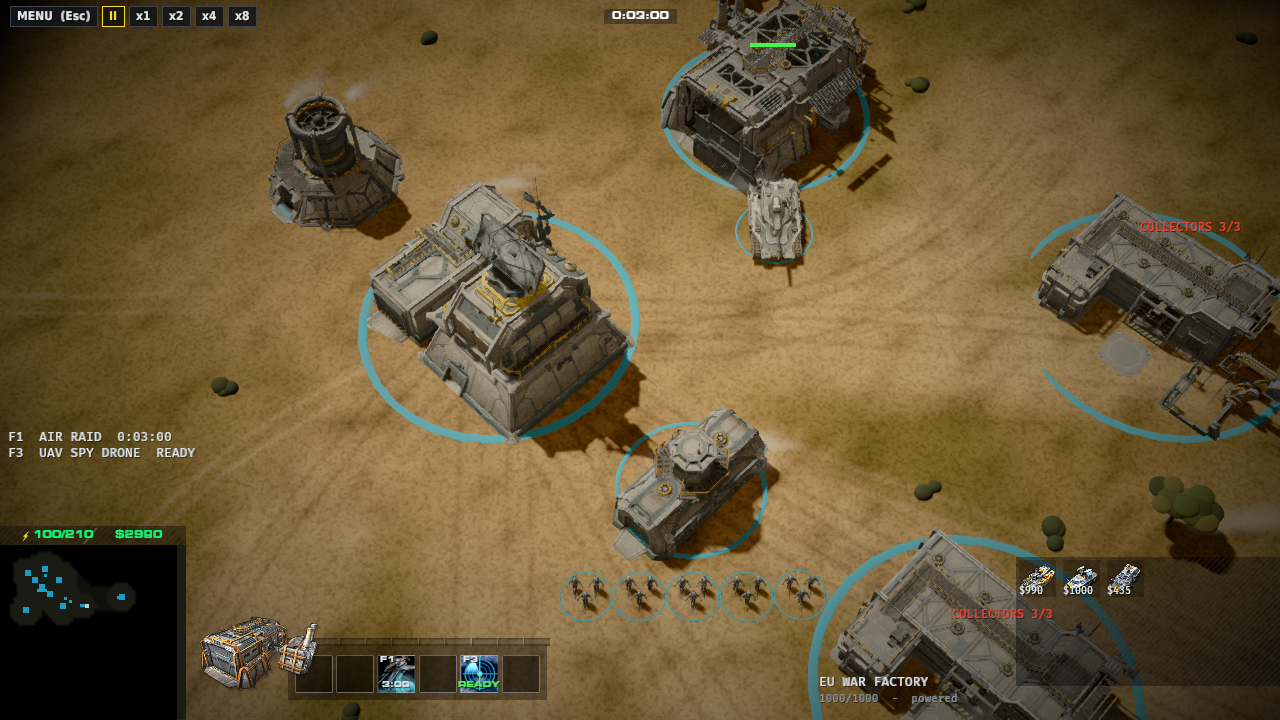
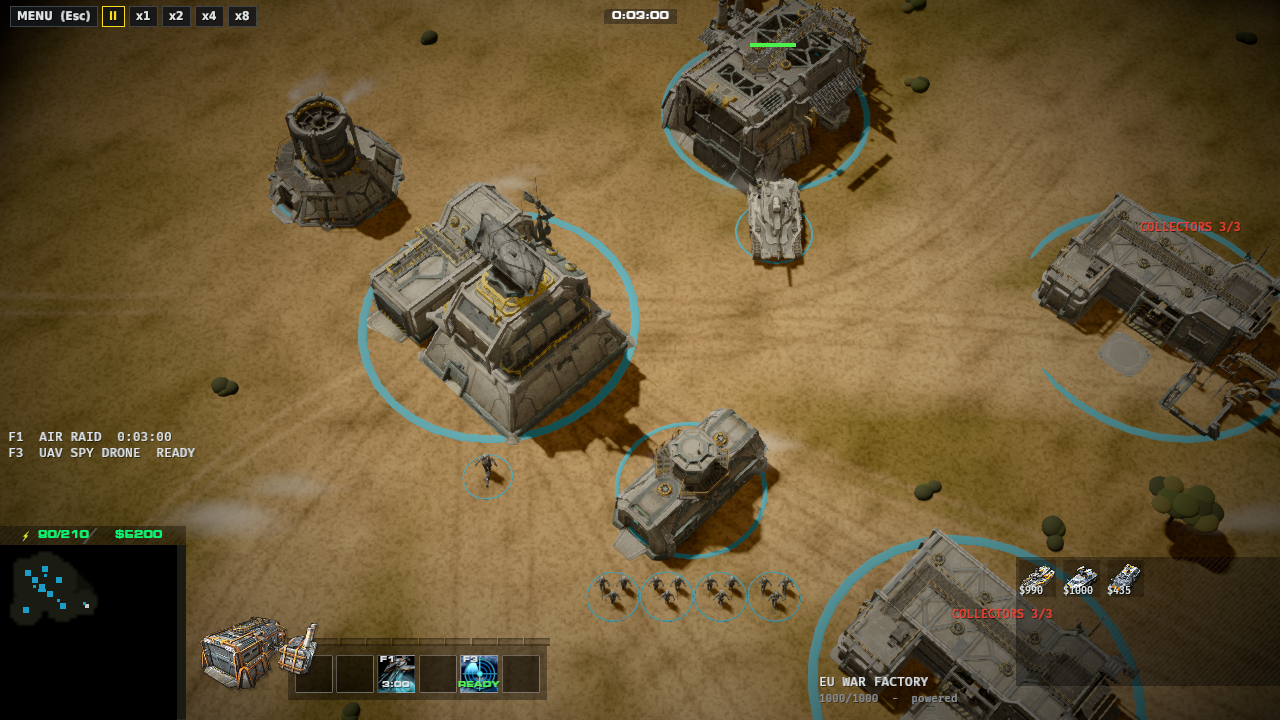
docs: status and media for v0.16.0
README status is milestone 14. Site: the in-match gallery shots (Cutting
Edge, Junkyard, Thrax, and the two looks side by side) are re-rendered on
this build, with its starting supply center and the alpha's build times.

diff --git a/README.md b/README.md
@@ -6,7 +6,7 @@ Open-source recreation of the cancelled *Command & Conquer: Generals 2*, as a ne
 
 The engine needs no game files. EA's GPL release of *Generals/Zero Hour* in `vendor/` is reference for the engine: no code from it is ported or copied into `crates/`. The one runtime use of `vendor/` is map data: the original Generals and Zero Hour **maps** can be played, read at runtime from EA's GPL map sources (`vendor/ea/CnC_Modding_Support`, a git submodule) and never copied into this repository. All art is original and procedural: meshes built from primitives, generated terrain and textures, our own HUD design. The archived 2013 footage sets the target mood (warm hard light, steep camera, savanna ground); `docs/STYLE.md` describes it as requirements, not as elements to copy.
 
-## Status: milestone 13, skirmish in teams against three AI levels, missions, heroes, co-op and internet play on Linux, Windows and macOS, Generals' menus with real dropdowns, support powers by command center and rank, the alpha's systems, generals and abilities
+## Status: milestone 14, skirmish in teams against three AI levels, missions, heroes, co-op and internet play on Linux, Windows and macOS, Generals' menus with real dropdowns, the alpha's build times, prices and opening, support powers by command center and rank, the alpha's systems, generals and abilities
 
 What works:
 
